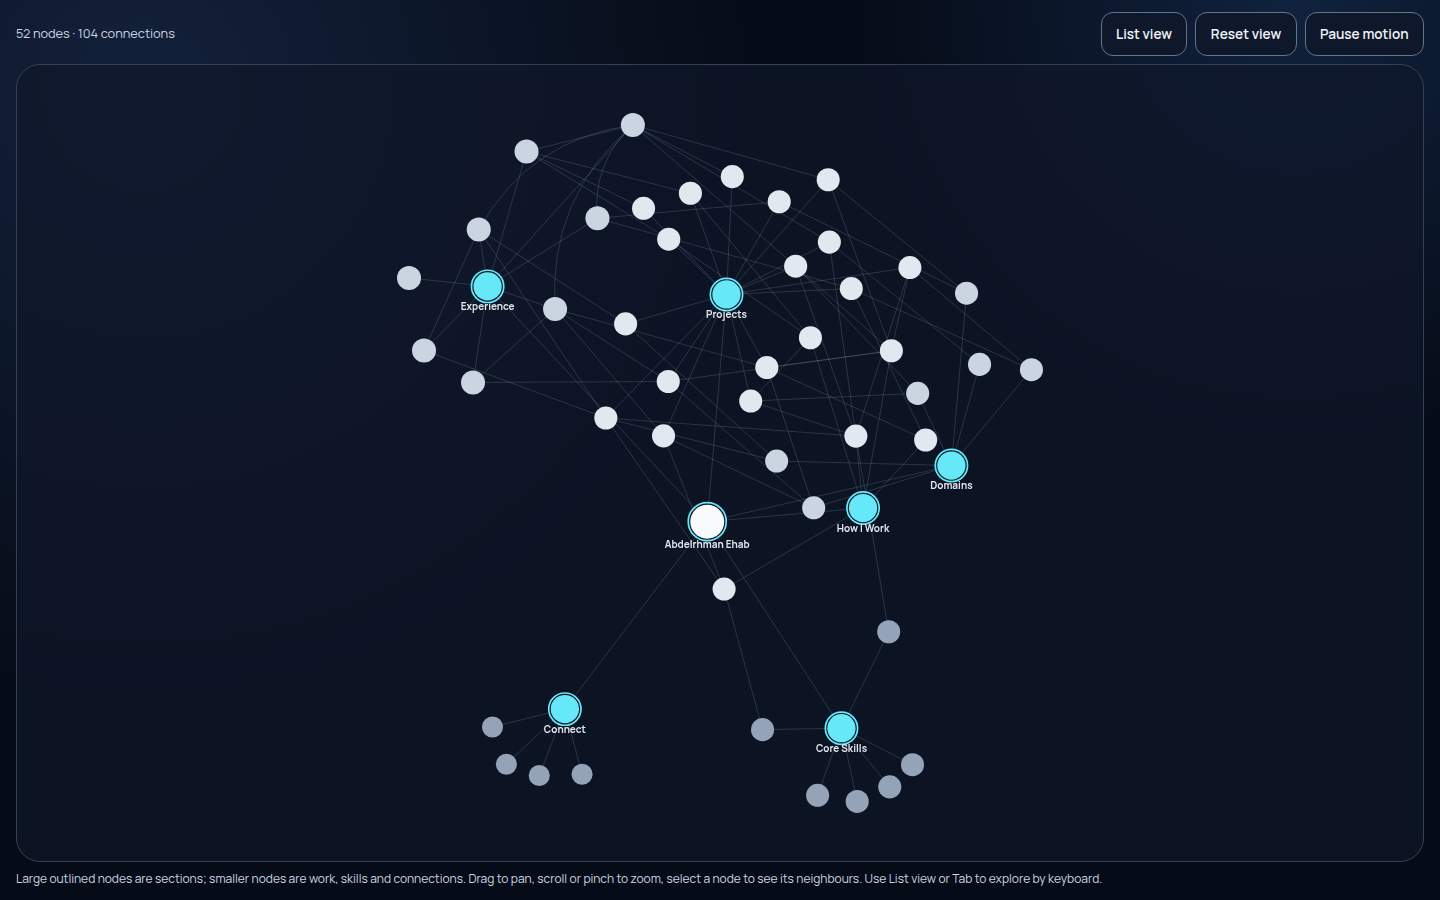
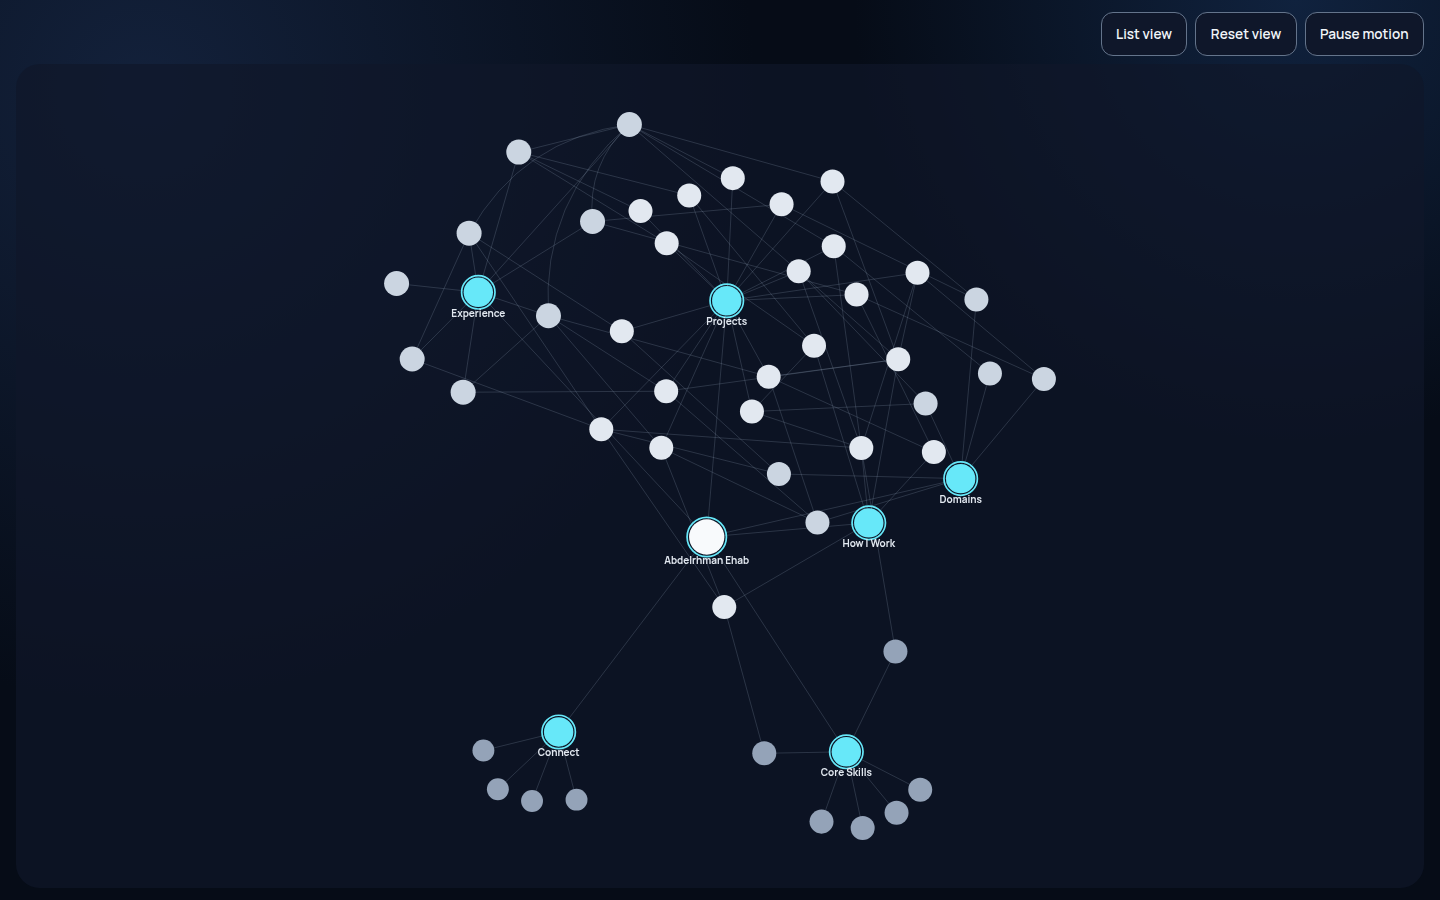
fix: declutter the portfolio graph (#5)
* Declutter portfolio graph view

* no-mistakes(review): Remove redundant source-only graph shell assertions

* no-mistakes(review): Show Enter hint only when graph is interactive

* no-mistakes(review): Correct view-specific keyboard guidance in verification notes

* no-mistakes(document): Consolidate decluttered graph documentation

---------

diff --git a/src/hero-graph.css b/src/hero-graph.css
@@ -7,20 +7,19 @@ ol, ul { list-style: none; }
 canvas { display: block; }
 body { min-height: 100vh; color: #f1f5f9; background-color: #060c17; background-image: radial-gradient(circle at 10% 10%, #13213b, transparent 40%), radial-gradient(circle at 90% 0%, #10223e, transparent 28%); font-family: Manrope, ui-sans-serif, system-ui, sans-serif; -webkit-font-smoothing: antialiased; }
 .visually-hidden { position: absolute; width: 1px; height: 1px; padding: 0; margin: -1px; overflow: hidden; clip: rect(0,0,0,0); white-space: nowrap; border: 0; }
-/* The graph is the whole page: controls, stage and caption fill one viewport, and the
+/* The graph is the whole page: controls and stage fill one viewport, and the
    List view overlays the stage with its own scroll instead of growing the page. */
-.graph-app { display: grid; grid-template-rows: auto minmax(0, 1fr) auto; grid-template-columns: minmax(0, 1fr); gap: .5rem; height: 100vh; height: 100dvh; padding: .75rem 1rem; overflow: hidden; }
-html:not(.graph-js) #graph-stage, html:not(.graph-js) #graph-controls, html:not(.graph-js) #graph-caption, #graph-stage[hidden] ~ #graph-caption { display: none !important; }
-#graph-stage { grid-area: 2 / 1; position: relative; width: 100%; min-height: 0; overflow: hidden; border: 1px solid #334155; border-radius: 1.5rem; background: rgba(15,23,42,.7); }
+.graph-app { display: grid; grid-template-rows: auto minmax(0, 1fr); grid-template-columns: minmax(0, 1fr); gap: .5rem; height: 100vh; height: 100dvh; padding: .75rem 1rem; overflow: hidden; }
+html:not(.graph-js) #graph-stage, html:not(.graph-js) #graph-controls { display: none !important; }
+#graph-stage { grid-area: 2 / 1; position: relative; width: 100%; min-height: 0; overflow: hidden; border-radius: 1.5rem; background: rgba(15,23,42,.7); }
 #graph-stage[hidden], #graph-controls[hidden], #graph-panel[hidden], #graph-controls [hidden] { display: none !important; }
 #graph-canvas-host { position: absolute; inset: 0; touch-action: none; }
 #graph-controls { display: flex; flex-wrap: wrap; justify-content: space-between; align-items: center; gap: .5rem .75rem; }
-#graph-controls .graph-buttons { display: flex; flex-wrap: wrap; gap: .5rem; }
+#graph-controls .graph-buttons { display: flex; flex-wrap: wrap; gap: .5rem; margin-left: auto; }
 #graph-status { color: #cbd5e1; font-size: .8rem; }
 #graph-controls button, #graph-index-wrap button, #graph-panel button { min-height: 44px; border: 1px solid #64748b; border-radius: .75rem; padding: .5rem .9rem; color: #f1f5f9; background: #0f172a; cursor: pointer; font: 600 .85rem Manrope, sans-serif; }
 #graph-controls button:hover, #graph-index-wrap button:hover, #graph-panel button:hover { border-color: #67e8f9; background: #1e293b; }
 #graph-controls button:focus-visible, #graph-index-wrap button:focus-visible, #graph-index-wrap a:focus-visible, #graph-panel :focus-visible { outline: 3px solid #67e8f9; outline-offset: 3px; }
-#graph-caption { color: #cbd5e1; font-size: .75rem; line-height: 1.5; }
 #graph-index-wrap { grid-area: 2 / 1; z-index: 10; justify-self: center; width: min(60rem, 100%); min-height: 0; overflow-y: auto; overscroll-behavior: contain; color: #cbd5e1; background: #0f172a; padding: 1rem; border: 1px solid #334155; border-radius: 1rem; }
 html.graph-js #graph-index-wrap.graph-index-hidden { position: absolute; width: 1px; height: 1px; padding: 0; margin: -1px; overflow: hidden; clip: rect(0,0,0,0); white-space: nowrap; border: 0; }
 html.graph-js #graph-index-wrap.graph-index-hidden:focus-within { position: static; width: min(60rem, 100%); height: auto; margin: 0; padding: 1rem; overflow-y: auto; clip: auto; white-space: normal; border: 1px solid #334155; }
@@ -28,6 +27,8 @@ html.graph-js #graph-index-wrap.graph-index-hidden:focus-within { position: stat
 #graph-index-wrap h2 { font-size: 1.2rem; }
 #graph-index-wrap h3 { font-size: 1rem; }
 #graph-index-wrap p { line-height: 1.55; margin: .25rem 0 .7rem; }
+.graph-index-interactive-hint { display: none; }
+html[data-graph-ready="true"] #graph-stage:not([hidden]) ~ #graph-index-wrap .graph-index-interactive-hint { display: inline; }
 #graph-index-wrap ul { list-style: none; padding: 0; margin: 0; }
 #graph-index-wrap > ul > li { margin: 1rem 0; }
 #graph-index-wrap ul ul { padding-left: 1rem; }
@@ -90,5 +91,5 @@ html.graph-js #graph-index-wrap.graph-index-hidden:focus-within { position: stat
 .graph-tooltip { font: 600 12px Manrope,sans-serif; color: #f8fafc; background: #020617; border: 1px solid #64748b; border-radius: 8px; padding: 6px 8px; max-width: 240px; }
 /* Beside a visible stage the list docks left; the detail callout floats above it beside its node. */
 @media (min-width: 1024px) { html.graph-js #graph-stage:not([hidden]) ~ #graph-index-wrap, html.graph-js #graph-stage:not([hidden]) ~ #graph-index-wrap.graph-index-hidden:focus-within { justify-self: start; width: min(28rem, 100%); box-shadow: 8px 0 30px #02061799; } }
-@media (max-width: 639px) { #graph-panel { width: calc(100% - 24px); } #graph-controls .graph-buttons { width: 100%; } #graph-controls button { flex: 1; padding-inline: .4rem; } }
+@media (max-width: 639px) { #graph-controls { min-height: 4.45rem; align-content: flex-end; } #graph-panel { width: calc(100% - 24px); } #graph-controls .graph-buttons { width: 100%; } #graph-controls button { flex: 1; padding-inline: .4rem; } }
 @media (prefers-reduced-motion: reduce) { #graph-stage *, #graph-controls *, #graph-panel, #graph-panel * { scroll-behavior: auto !important; animation: none !important; transition: none !important; } }

diff --git a/index.html b/index.html
@@ -225,21 +225,21 @@
     <main id="main-content" class="graph-app">
       <h1 id="graph-title" class="visually-hidden">Abdelrhman Ehab · Frontend Engineer</h1>
       <div id="graph-controls" aria-label="Graph controls">
-        <span id="graph-status" role="status">Explore the profile graph</span>
+        <span id="graph-status" class="visually-hidden" role="status">Explore the profile graph</span>
         <div class="graph-buttons">
           <button id="btn-list" type="button" aria-controls="graph-index-wrap" aria-expanded="false">List view</button>
           <button id="btn-reset" type="button">Reset view</button>
           <button id="btn-motion" type="button" aria-pressed="false">Pause motion</button>
         </div>
       </div>
-      <div id="graph-stage" role="group" aria-label="Interactive graph of Abdelrhman Ehab's work">
+      <div id="graph-stage" role="group" aria-label="Interactive graph of Abdelrhman Ehab's work" aria-describedby="graph-instructions">
+        <p id="graph-instructions" class="visually-hidden">Drag to pan, scroll or pinch to zoom. Select a node to see its neighbours. Use List view or Tab to explore the profile by keyboard.</p>
         <div id="graph-canvas-host" aria-hidden="true"></div>
         <div id="graph-panel" role="dialog" aria-modal="false" aria-labelledby="graph-panel-title" hidden tabindex="-1"></div>
       </div>
-      <p id="graph-caption">Large outlined nodes are sections; smaller nodes are work, skills and connections. Drag to pan, scroll or pinch to zoom, select a node to see its neighbours. Use List view or Tab to explore by keyboard.</p>
       <div id="graph-index-wrap" class="graph-index-hidden" aria-label="Profile graph as a list">
         <h2>Profile index</h2>
-        <p>All 52 nodes in the graph, grouped by section. Select a node for its details and connections.</p>
+        <p>All 52 nodes in the graph, grouped by section. Use Tab to explore the list and follow its connection links. <span class="graph-index-interactive-hint">Press Enter on a node to open its details.</span></p>
         <!-- graph-index:start -->
         <ul id="graph-index">
   <li id="graph-node-me" tabindex="-1"><button type="button" data-node="me">Abdelrhman Ehab</button><span class="graph-index-meta">Frontend Engineer · Arabic: Native · English: Professional working proficiency</span><span class="graph-index-summary">Frontend Engineer with 4+ years of professional web-development experience, including 2+ years building production React, Angular, and Vue applications with TypeScript. Specializes in Arabic-first and bilingual RTL interfaces, complex forms, role-based access control, dashboards, and workflow-heavy products across healthcare, virtualization, regulatory, editorial, and e-commerce domains. Experienced in building Node.js/Express services and delivering applications through GitHub Actions, Docker, Nginx, Linux, and Cloudflare. Strong at turning complex requirements into maintainable, accessible, and production-ready user experiences.</span><ul class="graph-index-bullets"><li>DevOps &amp; Server Infrastructure: VM console with encrypted WebSocket connectivity and managed TLS.</li><li>Data-Driven Features: file import validation audit, error-handling logic; MongoDB queries and debugging.</li></ul><div class="graph-index-tags"><span>React (Vite, TanStack Router, React Query, shadcn/ui)</span><span>Angular (v17-18 migrations, Nx, Metronic)</span><span>Vue (Pinia, vue-router)</span><span>Node.js</span><span>Express</span></div><p class="graph-index-connections">Connected to: <a href="#graph-node-hub-experience">Experience</a>, <a href="#graph-node-hub-projects">Projects</a>, <a href="#graph-node-hub-skills">Core Skills</a>, <a href="#graph-node-hub-domains">Domains</a>, <a href="#graph-node-hub-craft">How I Work</a>, <a href="#graph-node-hub-connect">Connect</a></p></li>

diff --git a/src/hero-graph.js b/src/hero-graph.js
@@ -356,7 +356,6 @@ export function initHeroGraph() {
       if (!moved) fit(0);
     }).observe(stage);
     mobile.addEventListener("change", () => { if (!moved) fit(0); });
-    status.textContent = `${graphNodes.length} nodes · ${graphEdges.length} connections`;
     document.documentElement.dataset.graphReady = "true";
     // With cooldownTicks(0), the library has no animated tick on which to
     // refit; let it commit its warmup positions to the canvas first.

diff --git a/docs/graph-only/verification.md b/docs/graph-only/verification.md
@@ -1,18 +1,19 @@
 # Graph-only page verification
 
-The page is now the graph view alone. Checked on the real page served from localhost with `chrome-devtools-axi` (Chrome) at 1440 × 900 and 390 × 844 (DPR 3, mobile, touch).
+The page is the graph view alone. Fresh default-view screenshots were captured from the locally served page in Chrome with `chrome-devtools-axi` at 1440 × 900 and 390 × 844 (DPR 3, mobile, touch).
 
 | State | Desktop 1440 × 900 | Phone 390 × 844 |
 | --- | --- | --- |
-| Settled default | [desktop](desktop-default.png) | [phone](mobile-default.png) |
+| Decluttered default (JavaScript enabled) | [desktop](desktop-default.png) | [phone](mobile-default.png) |
 | List view with a project's details | [desktop](desktop-list-detail.png) | [phone list](mobile-list.png) |
 | Connect and role details | [email](desktop-connect-email.png) | [resume](mobile-detail-resume.png), [role](mobile-detail-role.png) |
 | Node details callout | [beside its node](desktop-callout.png), [after zoom and pan](desktop-callout-panned.png) | [profile](mobile-callout-profile.png), [reduced motion](mobile-callout-reduced.png) |
 | Graph library unavailable (list-index fallback) | | [static card in the index](mobile-fallback-detail.png) |
 
+- **Decluttered shell:** the graph stage has no outline border; its background and rounded shape remain. The controls remain right-aligned without node/connection totals, and removing `#graph-caption` gives the stage more height. `#graph-status` remains a visually hidden `role="status"` for fallback announcements, but successful graph load does not replace it with counts. The stage's `aria-describedby` points to visually hidden drag/zoom/selection and keyboard instructions. The no-JavaScript profile index explains Tab navigation and connection links; only the interactive List view shows the Enter-to-open hint.
 - **Fills the page:** `main` is exactly the viewport, and document scroll size equals the viewport at both widths (1440 × 900 and 390 × 844). This holds with List view open, and with a detail panel open, because the list scrolls inside the stage area. No header, navigation, hero, `section` or footer remains; the accessible `h1`, title, description, the root node and its label identify Abdelrhman Ehab.
 - **Connect:** the Email node opens `mailto:abdelrhmanehab047@gmail.com`; the LinkedIn and GitHub nodes open the profile URLs in a new tab; the Resume (PDF) action has `download`. Clicking it in Chrome downloaded a file byte-identical to `assets/abdelrhmanehab_resume.pdf`. The same links are rendered in the List view index, so they also work without JavaScript.
-- **Keyboard:** starting from the top of the page, 300 Tab presses reached all 52 index node buttons and all 6 node links (4 Connect, 2 project sites) without scrolling the page. Enter opens a node, and Escape returns focus to it (see `scripts/test-hero-live.mjs`).
+- **Keyboard:** starting from the top of the page, 300 Tab presses reached all 52 index node buttons and all 6 node links (4 Connect, 2 project sites) without scrolling the page. With the interactive graph active, Enter opens a node and Escape returns focus to it (see `scripts/test-hero-live.mjs`).
 - **Node details callout:** selecting a node opens `#graph-panel` as a card pinned beside that node. The arrow points at it when alignment is possible.
   - **Desktop:** the card sits to the right of the node, flips to the left near the right edge, and drops below or above the node when neither side fits. It stays clamped inside the stage.
   - **Phone:** the card sits full-width below the node, or above it near the bottom of the stage.
@@ -26,4 +27,4 @@ The page is now the graph view alone. Checked on the real page served from local
 - **Console:** no messages on desktop or phone loads. An inline favicon replaces the previous `/favicon.ico` 404.
 - **Sharing:** Open Graph/Twitter now use [`assets/images/og-graph.png`](../../assets/images/og-graph.png), a 1200 × 630 capture of this page, in place of a client storefront screenshot.
 
-`HERO_GRAPH_EVIDENCE_DIR=<dir> node scripts/test-hero-live.mjs` (headless `google-chrome`) also passed. It covers the desktop and phone paths, the callout placement after zoom and pan, paused and reduced-motion picking, deep links, vendor-script failure, and JavaScript disabled (complete index, no blank stage).
+`HERO_GRAPH_EVIDENCE_DIR=<dir> node scripts/test-hero-live.mjs` (headless `google-chrome`) and `HERO_GRAPH_EVIDENCE_DIR=<dir> node scripts/test-callout-live.mjs` also passed. They cover the desktop and phone paths, the callout placement after zoom and pan, paused and reduced-motion picking, deep links, vendor-script failure, and JavaScript disabled at both widths (complete index, no blank stage).
